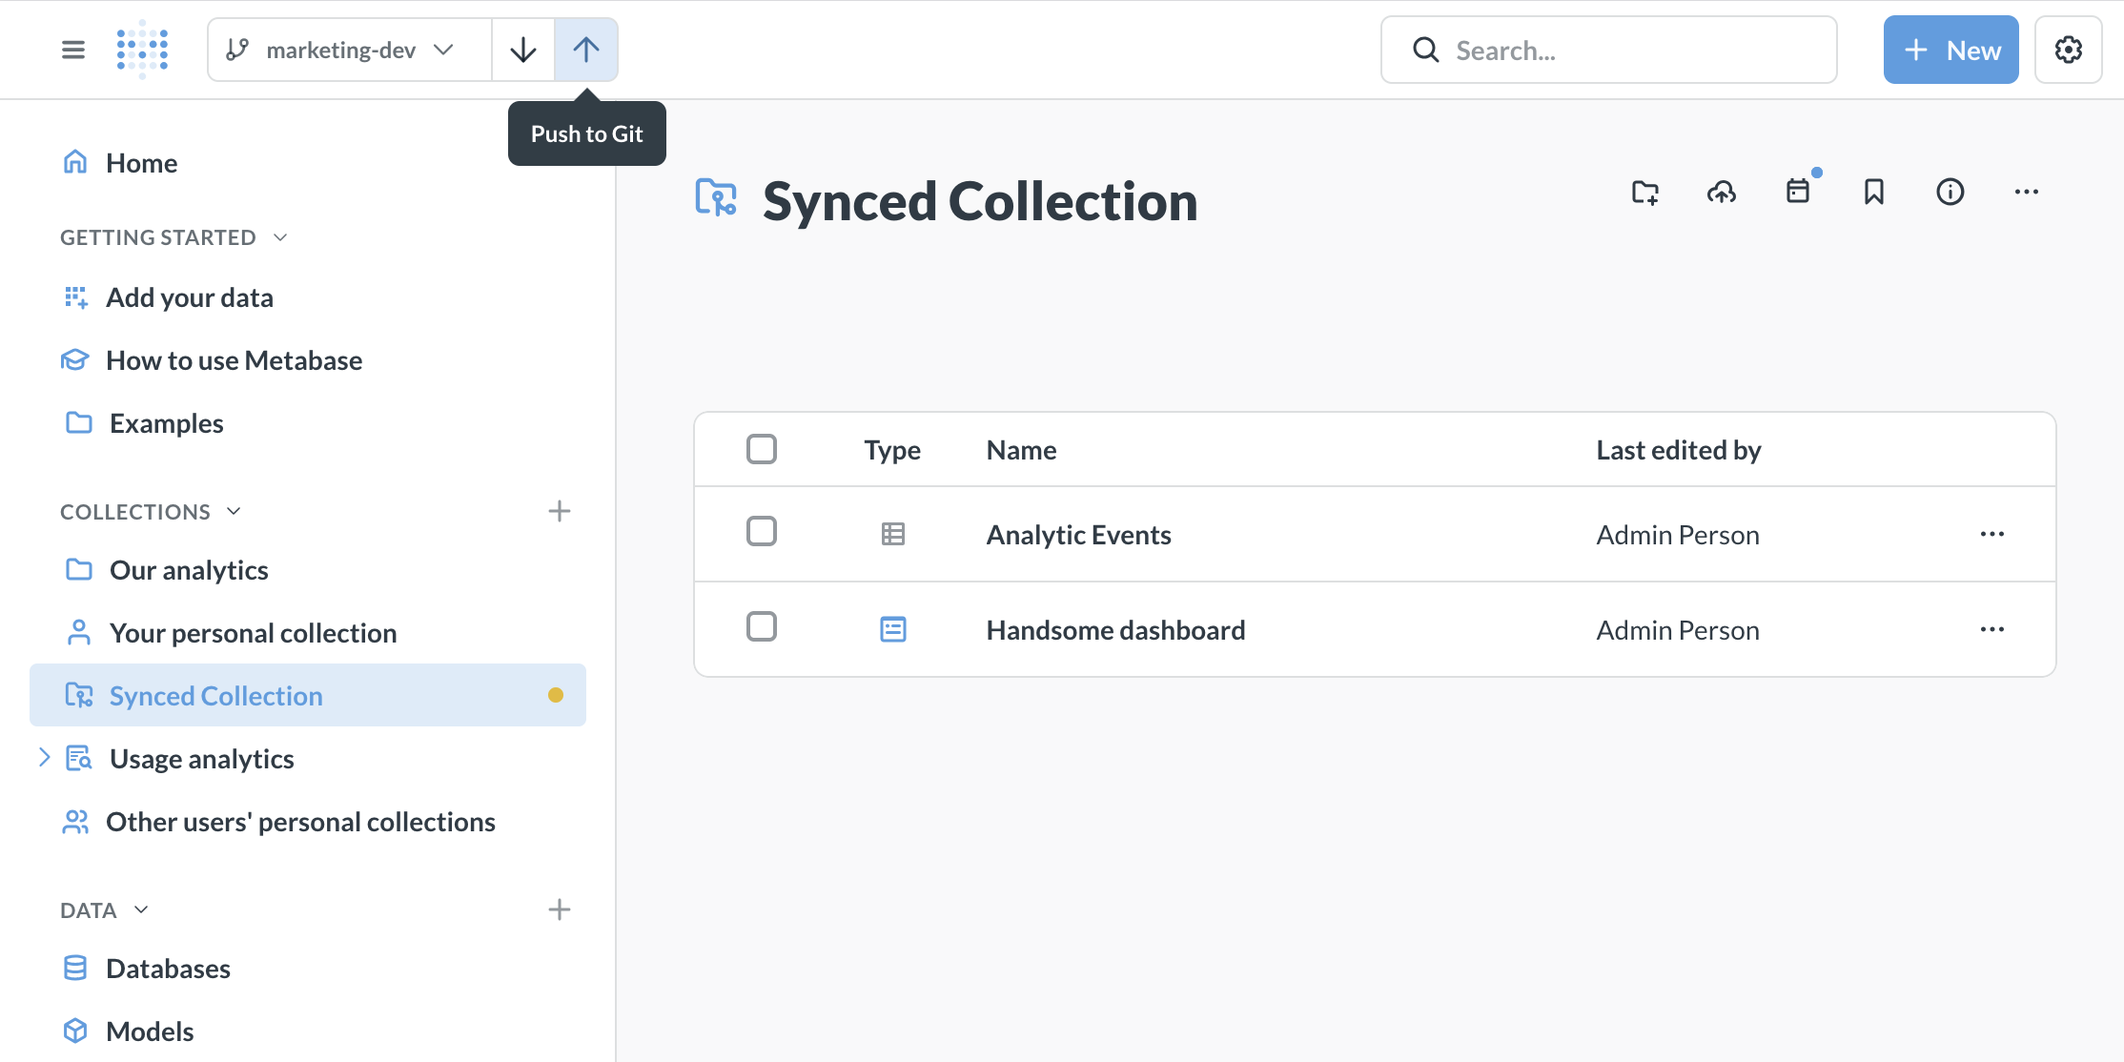
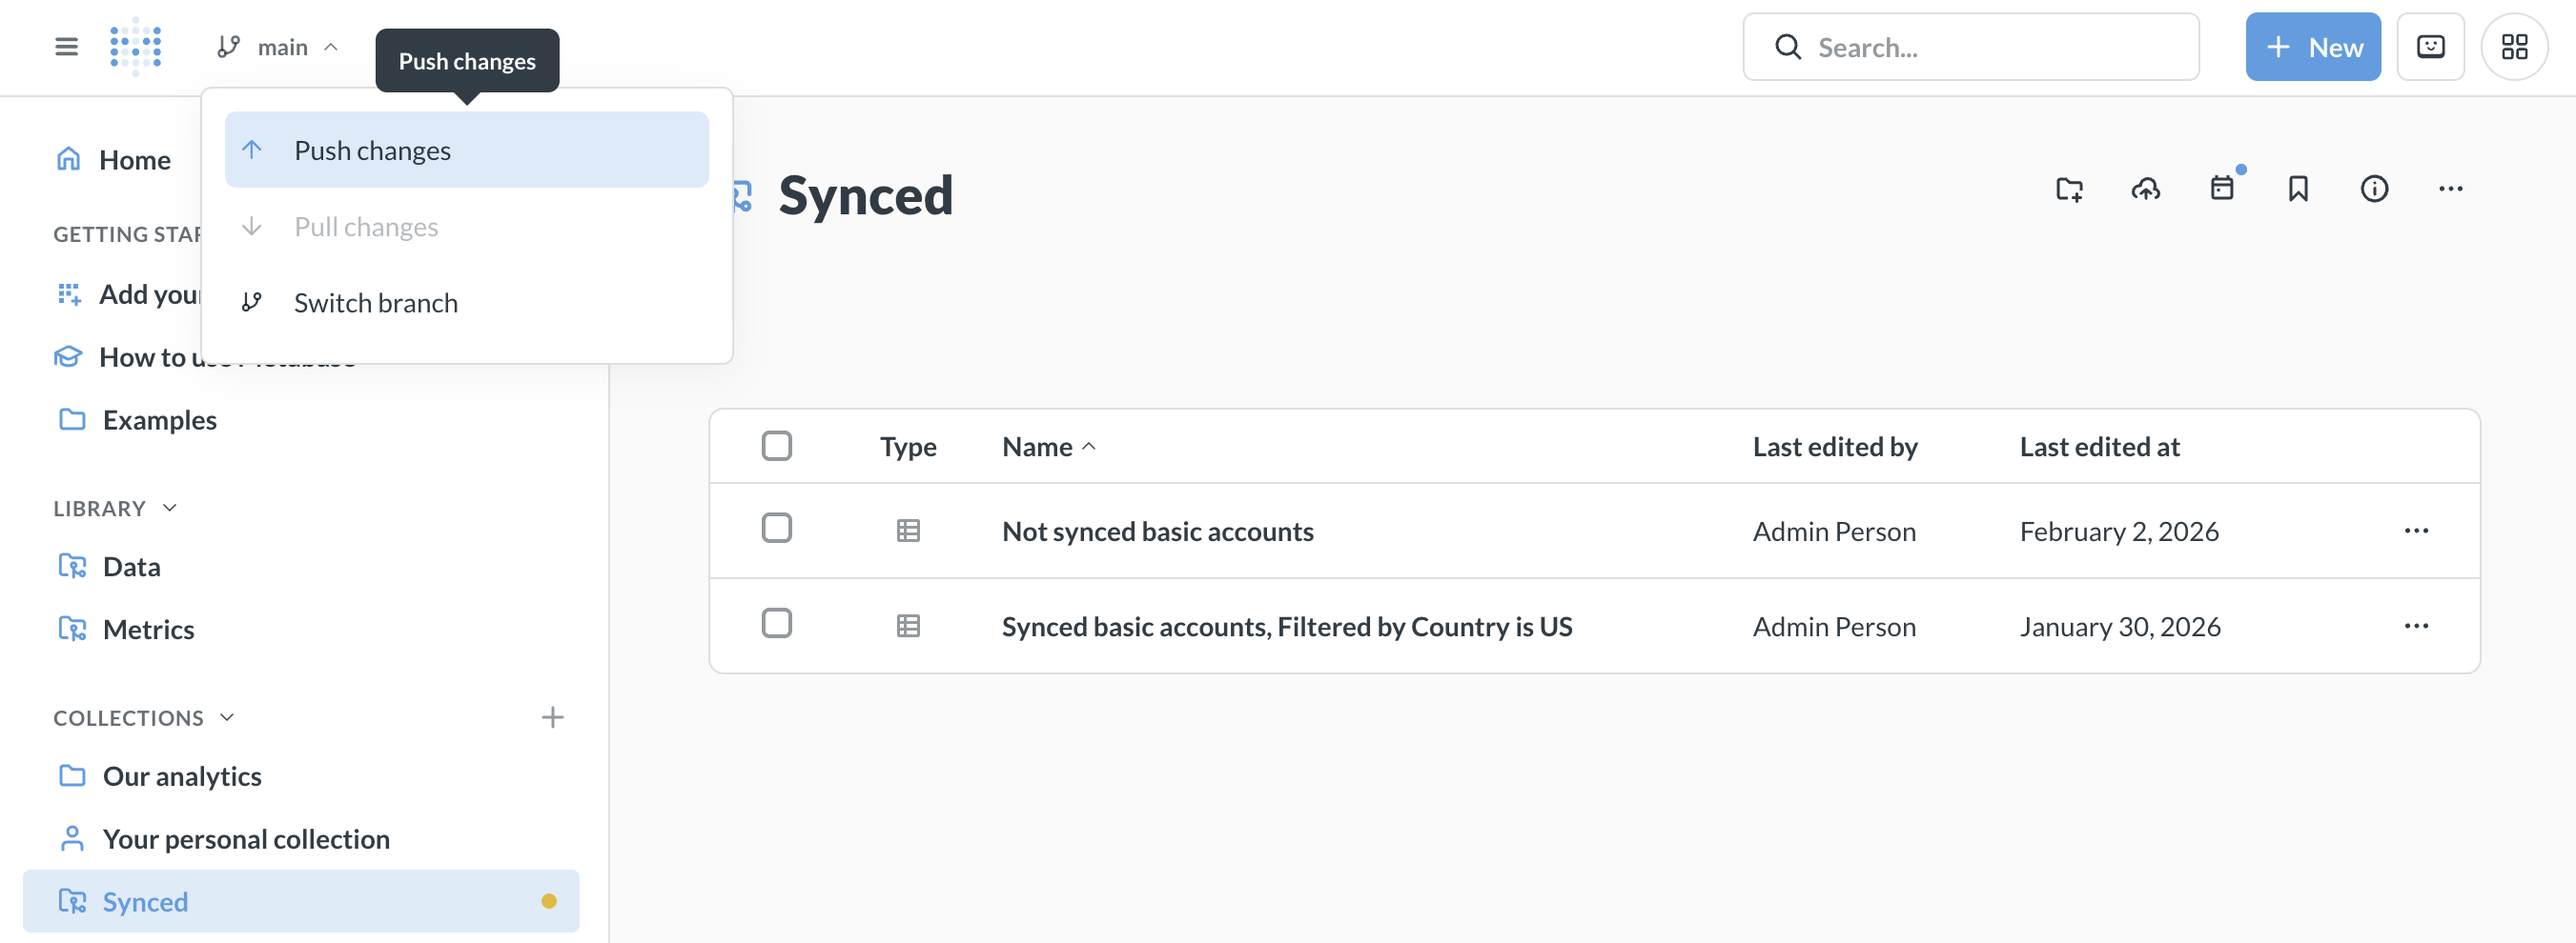
docs - remote sync edits (#68923)

diff --git a/docs/installation-and-operation/remote-sync.md b/docs/installation-and-operation/remote-sync.md
@@ -1,6 +1,6 @@
 ---
 title: Remote sync
-description: Version control your dashboards, questions, and models with Git. Sync content between development and production instances automatically.
+description: Version control your dashboards, questions, and transforms. Sync your Library and other collections between development and production.
 ---
 
 # Remote sync
@@ -9,9 +9,14 @@ description: Version control your dashboards, questions, and models with Git. Sy
 
 ## Overview
 
-Remote Sync lets you develop analytics content in a special collection in a development Metabase and automatically deploy it to a read-only production Metabase through Git. If you use [Tenants](../embedding/tenants.md), you can also sync shared collections.
+Remote Sync lets you develop analytics content in your Metabase and automatically deploy it to a read-only production Metabase through Git. Remote Sync can sync:
 
-**Remote Sync only syncs your dashboards, questions, and models—not your data or query results.** What gets stored in Git are [YAML files](./serialization.md#example-of-a-serialized-question) describing your analytics content. Your actual data stays in your databases and never goes to GitHub.
+- Top-level collections (dashboards, questions, models, metrics)
+- Library content (published tables and their segments and measures)
+- Snippets
+- Transforms
+
+Metabase doesn't sync any of your data. What it stores in Git are [YAML files](./serialization.md#example-of-a-serialized-question) describing your analytics content. Your actual data stays in your databases and never goes to GitHub.
 
 ### How Remote Sync works
 
@@ -27,14 +32,14 @@ We'll cover [setting up Remote Sync](#setting-up-remote-sync), an [example dev-t
 
 ### Key concepts
 
-**Remote sync has two modes for different roles**:
+**Remote Sync has two modes for different roles**:
 
 - **Read-write mode**: Create and edit content. You can [push](#pushing-changes-to-git) and [pull](#pulling-changes-from-git) changes to and from your repository. Multiple Metabase instances can connect in Read-write mode, each working on [different branches](#branch-management).
-- **Read-only mode**: Serves read-only content to users. Read-only instances only [pull](#pulling-changes-from-git) changes (typically from your main branch) and don't allow direct editing of synced content. You can set up [auto-sync](#pulling-changes-automatically) to automatically pull approved changes every five minutes.
+- **Read-only mode**: Read-only instances only [pull](#pulling-changes-from-git) changes (typically from your main branch) and don't allow direct editing of synced content. In Read-only mode, you also can't edit transforms (even if transforms syncing wasn't enabled in read-write mode), can't edit Library content, and can't create segments or measures on published tables. You can set up [auto-sync](#pulling-changes-automatically) to automatically pull approved changes every five minutes.
 
-**Only the synced collections is tracked**: Each Metabase connected to Remote Sync has one special [collection that syncs with Git](#how-synced-collections-work-in-read-write-mode). When you connect in Read-write mode, Metabase creates a collection called "Synced Collection" (you can rename it). Everything inside this collection (including sub-collections) is versioned and synchronized with your repository. If you use [Tenants](../embedding/tenants.md), you can also sync shared collections in addition to the Synced Collection.
+**You choose what to sync**: You can sync the Library, any top-level collections, and transforms. Everything inside selected collections (including sub-collections) is versioned and synchronized with your repository. If you use [Tenants](../embedding/tenants.md), you can also sync shared collections.
 
-**The synced collections must be self-contained**: Everything a dashboard or question needs must be [inside the synced collections](#items-in-synced-collections-cant-depend-on-items-outside-of-synced-collections). Content outside the synced collections won't sync to your repository or appear in other Metabase instances.
+**Items in synced collections must be self-contained**: Everything a dashboard or question needs must be [inside a synced collection](#items-in-synced-collections-cant-depend-on-items-outside-of-synced-collections).
 
 **Content is stored as [YAML files](./serialization.md#example-of-a-serialized-question)**: Remote Sync stores your content as YAML files in your Git repository. Each dashboard, question, model, and document becomes a YAML file that can be reviewed in pull requests and versioned like code.
 
@@ -47,10 +52,11 @@ You'll need to be an admin to set up Remote Sync.
 1. [Set up a repository to store your content](#1-set-up-a-repository-to-store-your-content)
 2. [Create a personal access token for development](#2-create-a-personal-access-token-for-development)
 3. [Connect your development Metabase to your repository](#3-connect-your-development-metabase-to-your-repository)
-4. [Add an item to a synced collection](#4-add-an-item-to-a-synced-collection)
+4. [Select collections to sync](#4-select-collections-to-sync)
 5. [Push your changes to your repository](#5-push-your-changes-to-your-repository)
 6. [Create a personal access token for production](#6-create-a-personal-access-token-for-production)
 7. [Connect your production Metabase to your repository](#7-connect-your-production-metabase-to-your-repository)
+8. [Configure transforms syncing (optional)](#8-configure-transforms-syncing-optional)
 
 ### 1. Set up a repository to store your content
 
@@ -58,7 +64,7 @@ Before you connect Metabase to your Git repository, create a [new GitHub reposit
 
 ### 2. Create a personal access token for development
 
-Create a [Github fine-grained personal access token](https://docs.github.com/en/authentication/keeping-your-account-and-data-secure/managing-your-personal-access-tokens) for your repository with these permissions:
+Create a [GitHub fine-grained personal access token](https://docs.github.com/en/authentication/keeping-your-account-and-data-secure/managing-your-personal-access-tokens) for your repository with these permissions:
 
 - **Contents:** Read and write
 - **Metadata:** Read-only (required)
@@ -89,23 +95,15 @@ In the Metabase instance that you use for development:
 
    - Click "Save changes". Metabase will check whether it can reach your repository. If the connection fails, make sure your token has the appropriate permissions and hasn't expired. If you copied the token incorrectly, generate a new one.
 
-6. (Optionally) If you have [multi-tenant user strategy enabled](../embedding/tenants.md#enable-multi-tenant-strategy), you can also choose which [shared collection](../embedding/tenants.md#changing-tenant-strategy) to sync.
+6. (Optional) If you have [multi-tenant user strategy enabled](../embedding/tenants.md#enable-multi-tenant-strategy), you can also choose which [shared collection](../embedding/tenants.md#changing-tenant-strategy) to sync.
 
-### 4. Add an item to a synced collection
+### 4. Select collections to sync
 
-When you first connect in Read-write mode, Metabase automatically creates a **synced collection** called "Synced Collection"—any content you add to it will be tracked in Git and can be pushed to your repository.
+You can select any top-level collection under Our Analytics to sync with Git. In the Remote Sync settings, choose which collections you want to track.
 
-You can rename the Synced Collection if you want, and you can add sub-collections within it to organize your content.
+Collections you select for syncing must pass referential integrity checks—they need to be self-contained, meaning all dependencies (like models referenced by questions) must also be in synced collections.
 
 If you use [tenants](../embedding/tenants.md), you can also choose to sync [shared collections](../embedding/tenants.md#collection-types).
-
-1. Navigate to the "Synced Collection" in your Synced Collections section (look for it in the left sidebar).
-
-2. Create or move content into the Synced Collection:
-   - **Create new content:** Click "New" and choose a dashboard, question, or document. Save it to the Synced Collection.
-   - **Move existing content:** Drag and drop items from other collections into the Synced Collection, or use the move option in the item's menu.
-
-Remember that synced collections must be [self-contained](#items-in-synced-collections-cant-depend-on-items-outside-of-synced-collections).
 
 ### 5. Push your changes to your repository
 
@@ -117,11 +115,11 @@ Once you've added content, you'll see a yellow dot on the synced collections ind
 
 2. Enter a commit message describing your changes (e.g., "Added dashboard on mammoth populations").
 
-3. Click "Continue" to commit and push your changes to your repository.
+3. Click "Push changes" to commit and push your changes to your repository.
 
-Check your repository — you should see the collection.
+Check your repository; you should see the collection.
 
-**About branches:** By default, you're pushing to your repository's main branch. However, you can choose which branch to push your development work to, allowing you to open pull requests for review before merging to the branch that your production Metabase pulls from. See [Branch management](#branch-management) for details on creating and switching branches.
+By default, you're pushing to your repository's main branch. However, you can choose (or create) a different branch so you can open pull requests for review. See [Branch management](#branch-management) for details on creating and switching branches.
 
 ### 6. Create a personal access token for production
 
@@ -164,9 +162,13 @@ In Read-only mode, synced collections appear in the regular collections list wit
 
 At this point, you should be all set up. Exit Admin settings, then reload your browser. You should see your synced collections in your production Metabase.
 
+### 8. Configure transforms syncing (optional)
+
+To version control your data transformation logic, you can sync your [Transforms](../data-modeling/transforms.md) including all your tags and jobs. Transform syncing is all or nothing: Metabase will sync your entire transforms namespace. You can't selectively sync specific transform folders.
+
 ## An example dev-to-production workflow
 
-Let's say your team wants to build a new analytics dashboard. Here's a workflow that ensures that all production content goes through a review process.
+Let's say your team wants to build a new analytics dashboard. Here's a workflow that ensures all production content goes through a review process.
 
 ### Step 1: Create a new branch
 
@@ -197,7 +199,7 @@ On your production Metabase instance:
 
 1. Within five minutes, Auto-sync detects the new commits on `main` (you can also manually import the changes).
 2. The "Megafauna Analytics" dashboard appears in production with all its questions.
-3. The content is read-only for users (they can view and use it, but can't edit it).
+3. The content is read-only (people can view and use it, but can't edit it).
 
 ## How synced collections work in Read-write mode
 
@@ -207,56 +209,54 @@ On your production Metabase instance:
 
 ### Synced collections in the UI
 
-When you first connect in Read-write mode, Metabase creates a synced collection called "Synced Collection". You can add items and sub-collections to it. The synced collection shows its current state with visual indicators: a yellow dot indicates unsynced local changes that need to be committed. At the top of the screen, you'll see and up/down arrows provide sync controls for pulling and pushing changes.
+You can select any top-level collection under Our Analytics to sync with Git. Synced collections show their current state with visual indicators: a yellow dot indicates unsynced local changes that need to be committed. At the top of the screen, you'll see up/down arrows that provide sync controls for pulling and pushing changes.
 
 If you are using [tenants](../embedding/tenants.md), you can also sync shared collections. You'll see the same yellow dot indicator for shared collections.
 
-In Read-only mode, synced collections appears in the regular collections list (not in a separate "Synced Collections" section) with a special icon to indicate it's versioned and read-only.
+In Read-only mode, synced collections appear in the regular collections list (not in a separate "Synced Collections" section) with a special icon to indicate they're versioned and read-only.
+
+When transforms syncing is enabled, you'll find your transforms in the Transforms section of the Admin settings. Synced transforms are also read-only in Read-only mode.
 
 ### Moving and deleting content in synced collections
 
-**Deletions sync to production:** When you remove content from a synced collection in Read-write mode and push that change, the content will also be removed from your Production instance when it syncs. This applies to moving content out of a synced collection or deleting it entirely.
+When you remove content from a synced collection in Read-write mode and push that change, the content will also be removed from your production instance when it syncs. This applies to moving content out of a synced collection or deleting it entirely.
 
 Content in other Metabases that depended on this item may break since the dependency will no longer be in a synced collection.
 
 ### Items in synced collections can't depend on items outside of synced collections
 
-For Remote Sync to work properly, synced collections must be self-contained. Everything a dashboard or question needs must be inside synced collections. This includes:
+For Remote Sync to work properly, synced collections must be self-contained. Everything a dashboard or question needs must be inside one of the synced collections. This includes:
 
 - Questions that reference models
 - Dashboards with questions
-- Click behaviors linking to other content
-- Filters that pick values from other questions or models
+- Click behaviors linking to other items
+- Filters that pick values from other questions
 - @ mentions in documents
-
-Exception: questions that reference snippets can't be synced, since snippets live outside collections.
-
-If you try to add a question that references a model, make sure the model is also in a synced collection.
 
 ### Making sub-collections appear at the top level
 
-Sometimes you might want synced content to appear at the top level of your navigation rather than nested under the Synced Collection. If you use [Tenants](../embedding/tenants.md), you can accomplish that with synced shared collections.
+Sometimes you might want synced content to appear at the top level of your navigation rather than nested under a synced collection. If you use [Tenants](../embedding/tenants.md), you can accomplish that with synced shared collections.
 
-If you aren't using tenants, then since all synced content must be in sub-collections of the Synced Collection, you can use permissions to control how the collection hierarchy appears to different groups.
+If you aren't using tenants, you can use permissions to control how the collection hierarchy appears to different groups.
 
-1. In your development Metabase, **Organize content in sub-collections of your Synced Collection**. For example, you might have `Synced Collection/Mammoth Statistics` and `Synced Collection/Giant Sloth Statistics`.
+1. **Organize content in sub-collections of your synced collection**. For example, you might have `Analytics/Mammoth Statistics` and `Analytics/Giant Sloth Statistics`.
 
-2. In your production Metabase, **Set up permissions for embedded groups:** Groups should have:
-   - **No view access** to the Synced Collection itself
-   - **View access** to specific sub-collections within the Synced Collection
+2. In your production Metabase, **set up permissions for embedded groups:** Groups should have:
+   - **No view access** to the top-level synced collection itself
+   - **View access** to specific sub-collections within the synced collection
 
-For groups with these permissions, the sub-collections they can access will appear at the top level of navigation, as if they were root-level collections. They won't see the top-level Synced Collection that you have in your development Metabase.
+For groups with these permissions, the sub-collections they can access will appear at the top level of navigation, as if they were root-level collections. They won't see the top-level synced collection that you have in your development Metabase.
 
 What you see in Read-write mode:
 
 ```
 Collections
-└── Synced Collection
+└── Analytics
     ├── Mammoth Statistics
     ├── Giant Sloth Statistics
 ```
 
-What embedding groups see in Read-only mode (with no access to Synced Collection, but access to Mammoth Statistics and Giant Sloth Statistics):
+What embedding groups see in Read-only mode (with no access to Analytics, but access to Mammoth Statistics and Giant Sloth Statistics):
 
 ```
 Collections
@@ -264,9 +264,9 @@ Collections
 └── Giant Sloth Statistics
 ```
 
-## Remote Sync uses Serialization
+## Remote Sync uses serialization
 
-Remote sync serializes your Metabase content as YAML files in your repo. YAML files use Metabase [serialization format](./serialization.md). See [Serialization docs](./serialization.md) for more information on the format.
+Remote Sync serializes your Metabase content as YAML files in your repo. YAML files use Metabase [serialization format](./serialization.md). See [Serialization docs](./serialization.md) for more information on the format.
 
 ## What Metabase syncs
 
@@ -280,12 +280,13 @@ Remote Sync uses the same serialization format as the [Metabase CLI serializatio
 - Documents
 - Timelines and events
 - Collection structure and metadata
+- Library content (published tables, metrics, snippets, segments, measures)
+- Transforms (including jobs and folders)
 
 **What doesn't sync:**
 
 - Users, groups, and permissions
 - Alerts and subscriptions
-- Snippets
 - Database connections
 - Personal collections
 - Table metadata (column types, descriptions, visibility settings, etc.)
@@ -381,7 +382,7 @@ In Read-only mode, you can set Metabase to auto-sync changes from your main bran
 1. Navigate to **Admin settings** > **Settings** > **Remote sync**.
 2. Enable Auto-sync with Git.
 
-By default, Metabase will pull any changes (if any) from the branch you specify every five minutes. You can also manually sync as needed.
+By default, Metabase will check for and pull changes from the branch you specify every five minutes. You can also manually sync as needed.
 
 ## Disabling Remote Sync
 
@@ -415,4 +416,4 @@ If you want to switch fully to Remote Sync, we recommend starting with a new rep
 3. Move the content you want to sync into a synced collection.
 4. Push up your changes to the new repo.
 
-Remote Sync does NOT sync table metadata, so if you're importing and exporting your [table metadata](../data-modeling/metadata-editing.md), you should stick with serialization.
+Remote Sync doesn't sync table metadata, so if you're importing and exporting your [table metadata](../data-modeling/metadata-editing.md), you should stick with serialization.
